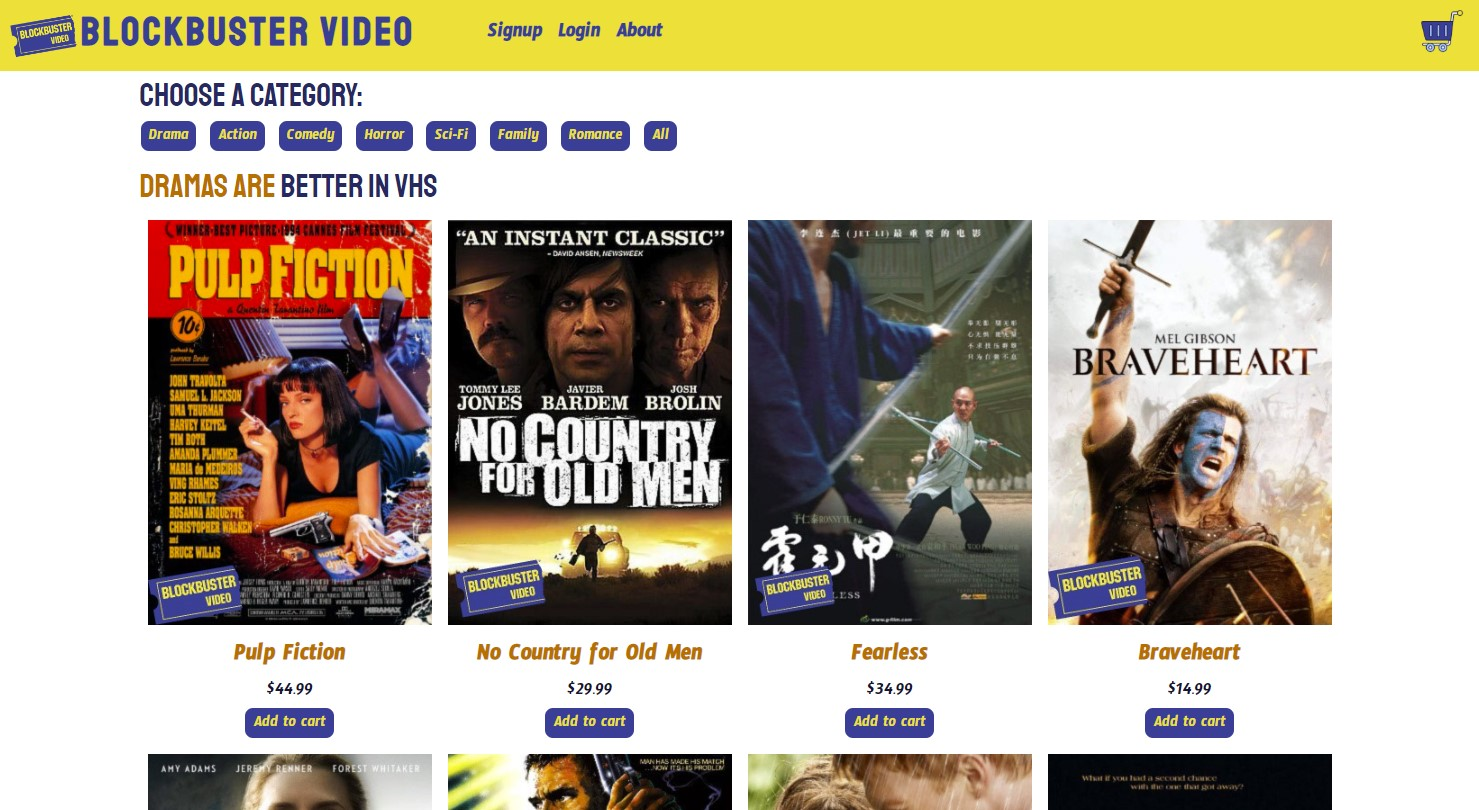
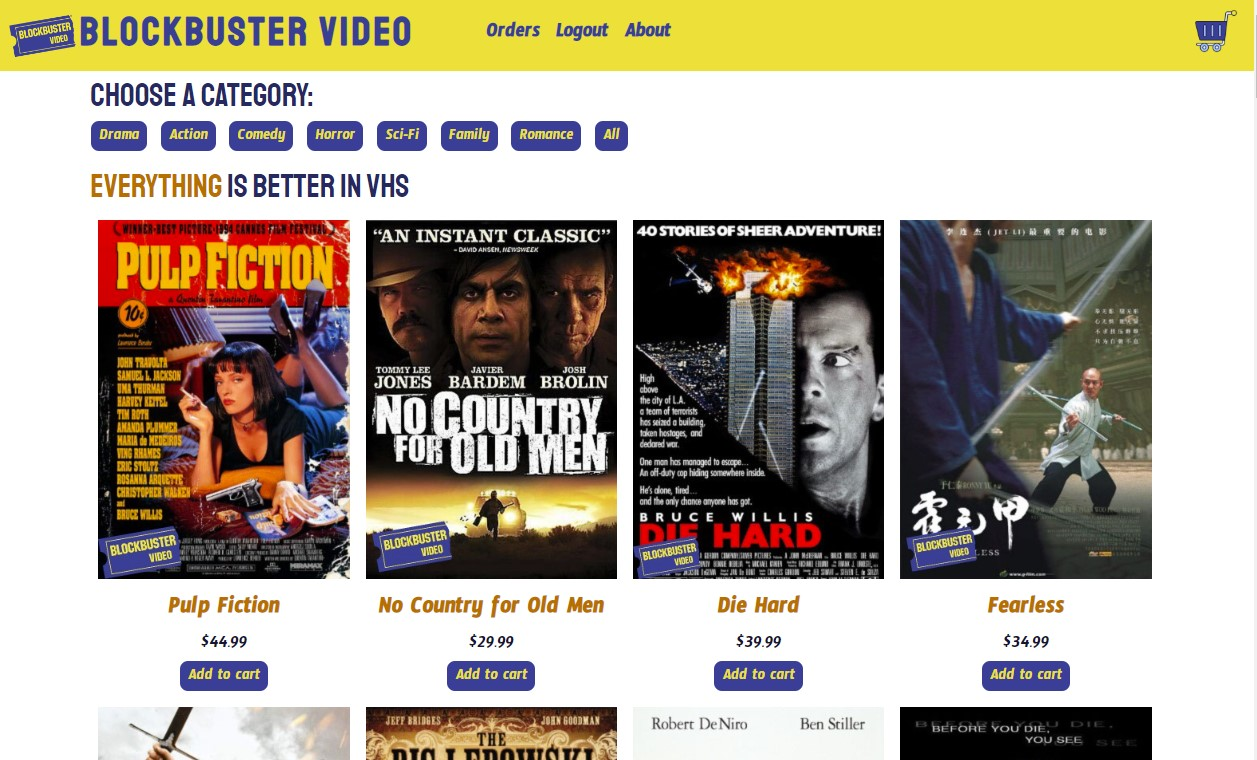
got the page to show display "everything" text on refresh

diff --git a/server/config/seeds.js b/server/config/seeds.js
@@ -5,14 +5,14 @@ db.once("open", async () => {
   await Category.deleteMany();
 
   const categories = await Category.insertMany([
-    { name: "Drama", title: "Dramas are" },
-    { name: "Action", title: "Action Movies are" },
-    { name: "Comedy", title: "Comedies are" },
-    { name: "Horror", title: "Horror Films are" },
-    { name: "Sci-Fi", title: "Sci-Fi Movies are" },
-    { name: "Family", title: "Family Films are" },
-    { name: "Romance", title: "Romantic Movies are" },
-    { name: "All", title: "Everything is " },
+    { name: "Drama", title: "Dramas", helpingVerb: "are" },
+    { name: "Action", title: "Action Movies", helpingVerb: "are" },
+    { name: "Comedy", title: "Comedies", helpingVerb: "are" },
+    { name: "Horror", title: "Horror Films", helpingVerb: "are" },
+    { name: "Sci-Fi", title: "Sci-Fi Movies", helpingVerb: "are" },
+    { name: "Family", title: "Family Films", helpingVerb: "are" },
+    { name: "Romance", title: "Romantic Movies", helpingVerb: "are" },
+    { name: "All", title: "Everything ", helpingVerb: "is" },
   ]);
 
   console.log("categories seeded");

diff --git a/client/src/index.css b/client/src/index.css
@@ -394,7 +394,7 @@ input:focus {
   }
 
   .card {
-    width: 100%;
+    width: 94%;
   }
 
   .category-btn {
@@ -414,6 +414,10 @@ input:focus {
   .text-was-row {
     margin-top: 7rem;
   }
+
+  .category-description {
+    font-size: 1.5rem;
+  }
 }
 
 @media screen and (min-width: 375px) and (max-width: 424px) {
@@ -429,7 +433,7 @@ input:focus {
   }
 
   .card {
-    width: 100%;
+    width: 94%;
   }
 
   .category-btn {
@@ -453,6 +457,9 @@ input:focus {
   }
   .text-was-row {
     margin-top: 7rem;
+  }
+  .category-description {
+    font-size: 1.5rem;
   }
 }
 
@@ -473,7 +480,7 @@ input:focus {
   }
 
   .card {
-    width: 100%;
+    width: 94%;
   }
 
   .category-btn {
@@ -493,9 +500,21 @@ input:focus {
   .text-was-row {
     margin-top: 7rem;
   }
+  .category-description {
+    font-size: 1.5rem;
+  }
 }
 
 @media screen and (min-width: 480px) and (max-width: 767px) {
+  .logo-name {
+    /* font-size: 3rem;
+    text-align: center; */
+    display: none;
+    /* margin: 0; */
+  }
+  .logo-image {
+    margin-top: 4px;
+  }
   form {
     width: 80%;
   }

diff --git a/client/src/components/ProductList/index.js b/client/src/components/ProductList/index.js
@@ -63,8 +63,15 @@ function ProductList() {
 
   return (
     <div className="my-2">
-      <h2>
-        <span className="orange">{currentCategory.title}</span> Better in VHS{" "}
+      <h2 className="category-description">
+        {!currentCategory ? (
+          <>
+            <span className="orange ">Everything</span> <span>is</span>
+          </>
+        ) : (
+          <span className="orange ">{currentCategory.title}</span>
+        )}{" "}
+        {currentCategory.helpingVerb} Better in VHS{" "}
       </h2>
 
       {state.products.length ? (

diff --git a/client/src/components/Nav/index.js b/client/src/components/Nav/index.js
@@ -9,7 +9,7 @@ function Nav() {
       return (
         <ul className="nav-list flex-row">
           <li className=" mx-1">
-            <Link to="/orderHistory">Order History</Link>
+            <Link to="/orderHistory">Orders</Link>
           </li>
           <li className="mx-1">
             {/* this is not using the Link component to logout or user and then refresh the application to the start */}

diff --git a/client/src/components/Cart/index.js b/client/src/components/Cart/index.js
@@ -46,7 +46,7 @@ const Cart = () => {
     return (
       <div className="cart-closed" onClick={toggleCart}>
         <span role="img" aria-label="cart">
-          <img src={cart1} />
+          <img src={cart1} alt="shopping cart" />
         </span>
       </div>
     );

diff --git a/server/models/Category.js b/server/models/Category.js
@@ -13,6 +13,11 @@ const categorySchema = new Schema({
     // required: true,
     trim: true,
   },
+  helpingVerb: {
+    type: String,
+    // required: true,
+    trim: true,
+  },
 });
 
 const Category = mongoose.model("Category", categorySchema);

diff --git a/server/schemas/typeDefs.js b/server/schemas/typeDefs.js
@@ -5,6 +5,7 @@ const typeDefs = gql`
     _id: ID
     name: String
     title: String
+    helpingVerb: String
   }
 
   type Product {

diff --git a/client/src/utils/queries.js b/client/src/utils/queries.js
@@ -60,6 +60,7 @@ export const QUERY_CATEGORIES = gql`
       _id
       name
       title
+      helpingVerb
     }
   }
 `;
